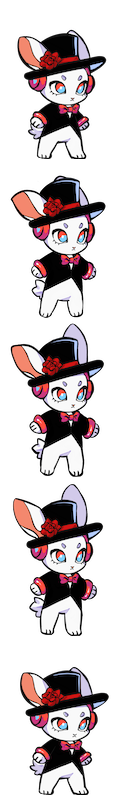
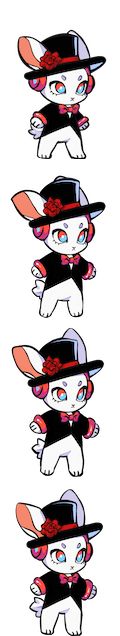
Fixed player animations and attributes
- Added friction, more force, and more speed to player
- Added fall animation to Player

diff --git a/core/src/edu/cornell/gdiac/rabbeat/ObjectController.java b/core/src/edu/cornell/gdiac/rabbeat/ObjectController.java
@@ -145,6 +145,10 @@ public class ObjectController {
     public TextureAtlas synthJumpAtlas;
     /** The synth genre jumping animation for the player */
     public Animation<TextureRegion> synthJumpAnimation;
+    /** The synth genre fall atlas for the player */
+    public TextureAtlas synthFallAtlas;
+    /** The synth genre fall animation for the player */
+    public Animation<TextureRegion> synthFallAnimation;
 
     //  JAZZ
     /** The jazz genre idle atlas for the player */
@@ -159,6 +163,10 @@ public class ObjectController {
     public TextureAtlas jazzJumpAtlas;
     /** The jazz genre jumping animation for the player */
     public Animation<TextureRegion> jazzJumpAnimation;
+    /** The jazz genre fall atlas for the player */
+    public TextureAtlas jazzFallAtlas;
+    /** The jazz genre fall animation for the player */
+    public Animation<TextureRegion> jazzFallAnimation;
 
     //ENEMY ANIMATIONS
     /** The idle atlas for the bear enemy */
@@ -249,20 +257,26 @@ public class ObjectController {
         synthIdleAnimation = new Animation<TextureRegion>(1f, synthIdleAtlas.findRegions("synthIdle"), Animation.PlayMode.LOOP);
 
         synthWalkAtlas = new TextureAtlas(Gdx.files.internal("player/synthWalk.atlas"));
-        synthWalkAnimation = new Animation<TextureRegion>(5/6f, synthWalkAtlas.findRegions("synthWalk"), Animation.PlayMode.LOOP);
+        synthWalkAnimation = new Animation<TextureRegion>(0.7f, synthWalkAtlas.findRegions("synthWalk"), Animation.PlayMode.LOOP);
 
         synthJumpAtlas = new TextureAtlas(Gdx.files.internal("player/synthJump.atlas"));
         synthJumpAnimation = new Animation<TextureRegion>(5/6f, synthJumpAtlas.findRegions("synthJump"), Animation.PlayMode.NORMAL);
+
+        synthFallAtlas = new TextureAtlas(Gdx.files.internal("player/synthFall.atlas"));
+        synthFallAnimation = new Animation<TextureRegion>(1.5f, synthFallAtlas.findRegions("synthFall"), Animation.PlayMode.LOOP);
 
         //  Jazz
         jazzIdleAtlas = new TextureAtlas(Gdx.files.internal("player/jazzIdle.atlas"));
         jazzIdleAnimation = new Animation<TextureRegion>(1f, jazzIdleAtlas.findRegions("jazzIdle"), Animation.PlayMode.LOOP);
 
         jazzWalkAtlas = new TextureAtlas(Gdx.files.internal("player/jazzWalk.atlas"));
-        jazzWalkAnimation = new Animation<TextureRegion>(7/6f, jazzWalkAtlas.findRegions("jazzWalk"), Animation.PlayMode.LOOP);
+        jazzWalkAnimation = new Animation<TextureRegion>(0.9f, jazzWalkAtlas.findRegions("jazzWalk"), Animation.PlayMode.LOOP);
 
         jazzJumpAtlas = new TextureAtlas(Gdx.files.internal("player/jazzJump.atlas"));
         jazzJumpAnimation = new Animation<TextureRegion>(5/6f, jazzJumpAtlas.findRegions("jazzJump"), Animation.PlayMode.NORMAL);
+
+        jazzFallAtlas = new TextureAtlas(Gdx.files.internal("player/jazzFall.atlas"));
+        jazzFallAnimation = new Animation<TextureRegion>(1.5f, jazzFallAtlas.findRegions("jazzFall"), Animation.PlayMode.LOOP);
 
         //  Allocating enemy animations
         //  Bear
@@ -795,10 +809,12 @@ public class ObjectController {
         player.synthIdleAnimation = synthIdleAnimation;
         player.synthWalkAnimation = synthWalkAnimation;
         player.synthJumpAnimation = synthJumpAnimation;
+        player.synthFallAnimation = synthFallAnimation;
         // Set animations: Jazz
         player.jazzIdleAnimation =  jazzIdleAnimation;
         player.jazzWalkAnimation = jazzWalkAnimation;
         player.jazzJumpAnimation = jazzJumpAnimation;
+        player.jazzFallAnimation = jazzFallAnimation;
 
         player.setAnimation(synthWalkAnimation);
         player.synthSpeed = synthSpeed;

diff --git a/core/src/edu/cornell/gdiac/rabbeat/Player.java b/core/src/edu/cornell/gdiac/rabbeat/Player.java
@@ -87,6 +87,8 @@ public class Player extends CapsuleGameObject implements ISyncedAnimated, IGenre
 	public Animation<TextureRegion> synthWalkAnimation;
 	/** The synth genre jumping animation for the player */
 	public Animation<TextureRegion> synthJumpAnimation;
+	/** The synth genre fall animation for the player */
+	public Animation<TextureRegion> synthFallAnimation;
 
 	/** The jazz genre idle animation for the player */
 	public Animation<TextureRegion> jazzIdleAnimation;
@@ -94,6 +96,8 @@ public class Player extends CapsuleGameObject implements ISyncedAnimated, IGenre
 	public Animation<TextureRegion> jazzWalkAnimation;
 	/** The jazz genre jumping animation for the player */
 	public Animation<TextureRegion> jazzJumpAnimation;
+	/** The jazz genre fall animation for the player */
+	public Animation<TextureRegion> jazzFallAnimation;
 
 	/** The player's current animation */
 	public Animation<TextureRegion> animation;
@@ -467,8 +471,23 @@ public class Player extends CapsuleGameObject implements ISyncedAnimated, IGenre
 		if (animationIsJumping){
 			if (animation.isAnimationFinished(stateTime)) {
 				animationIsJumping = false;
-			} else{
-				return;
+				switch (animationGenre) {
+					case SYNTH:
+						setAnimation(synthFallAnimation);
+						break;
+					case JAZZ:
+						setAnimation(jazzFallAnimation);
+						break;
+				}
+			}
+		} else if (!isGrounded) {
+			switch (animationGenre) {
+				case SYNTH:
+					setAnimation(synthFallAnimation);
+					break;
+				case JAZZ:
+					setAnimation(jazzFallAnimation);
+					break;
 			}
 		} else if (isWalking()){
 			switch (animationGenre){
@@ -479,7 +498,7 @@ public class Player extends CapsuleGameObject implements ISyncedAnimated, IGenre
 					setAnimation(jazzWalkAnimation);
 					break;
 			}
-		} else{
+		} else {
 			switch (animationGenre){
 				case SYNTH:
 					setAnimation(synthIdleAnimation);

diff --git a/core/src/edu/cornell/gdiac/rabbeat/GameCanvas.java b/core/src/edu/cornell/gdiac/rabbeat/GameCanvas.java
@@ -94,7 +94,7 @@ public class GameCanvas {
 	private TextureRegion holder;
 
 	/** Camera movement speed */
-	float CAMERA_SPEED = 3f;
+	float CAMERA_SPEED = 7f;
 
 	/**
 	 * Creates a new GameCanvas determined by the application configuration.
